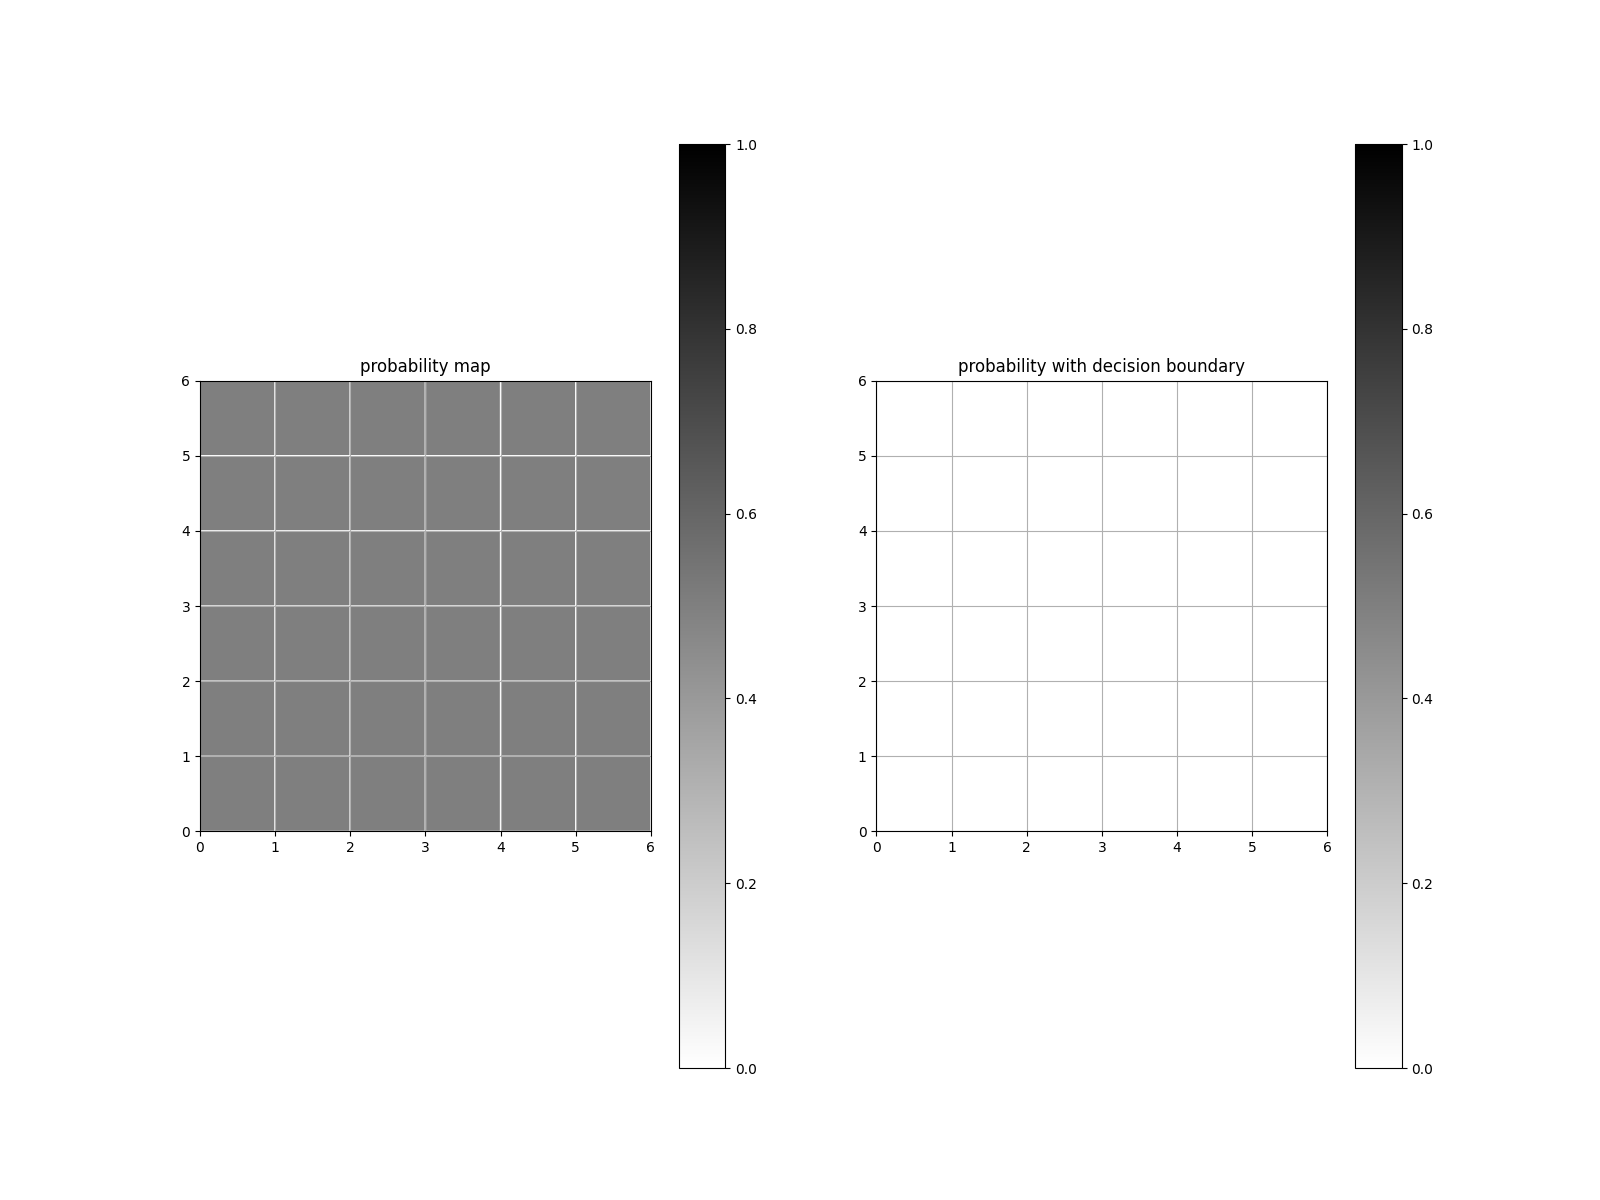
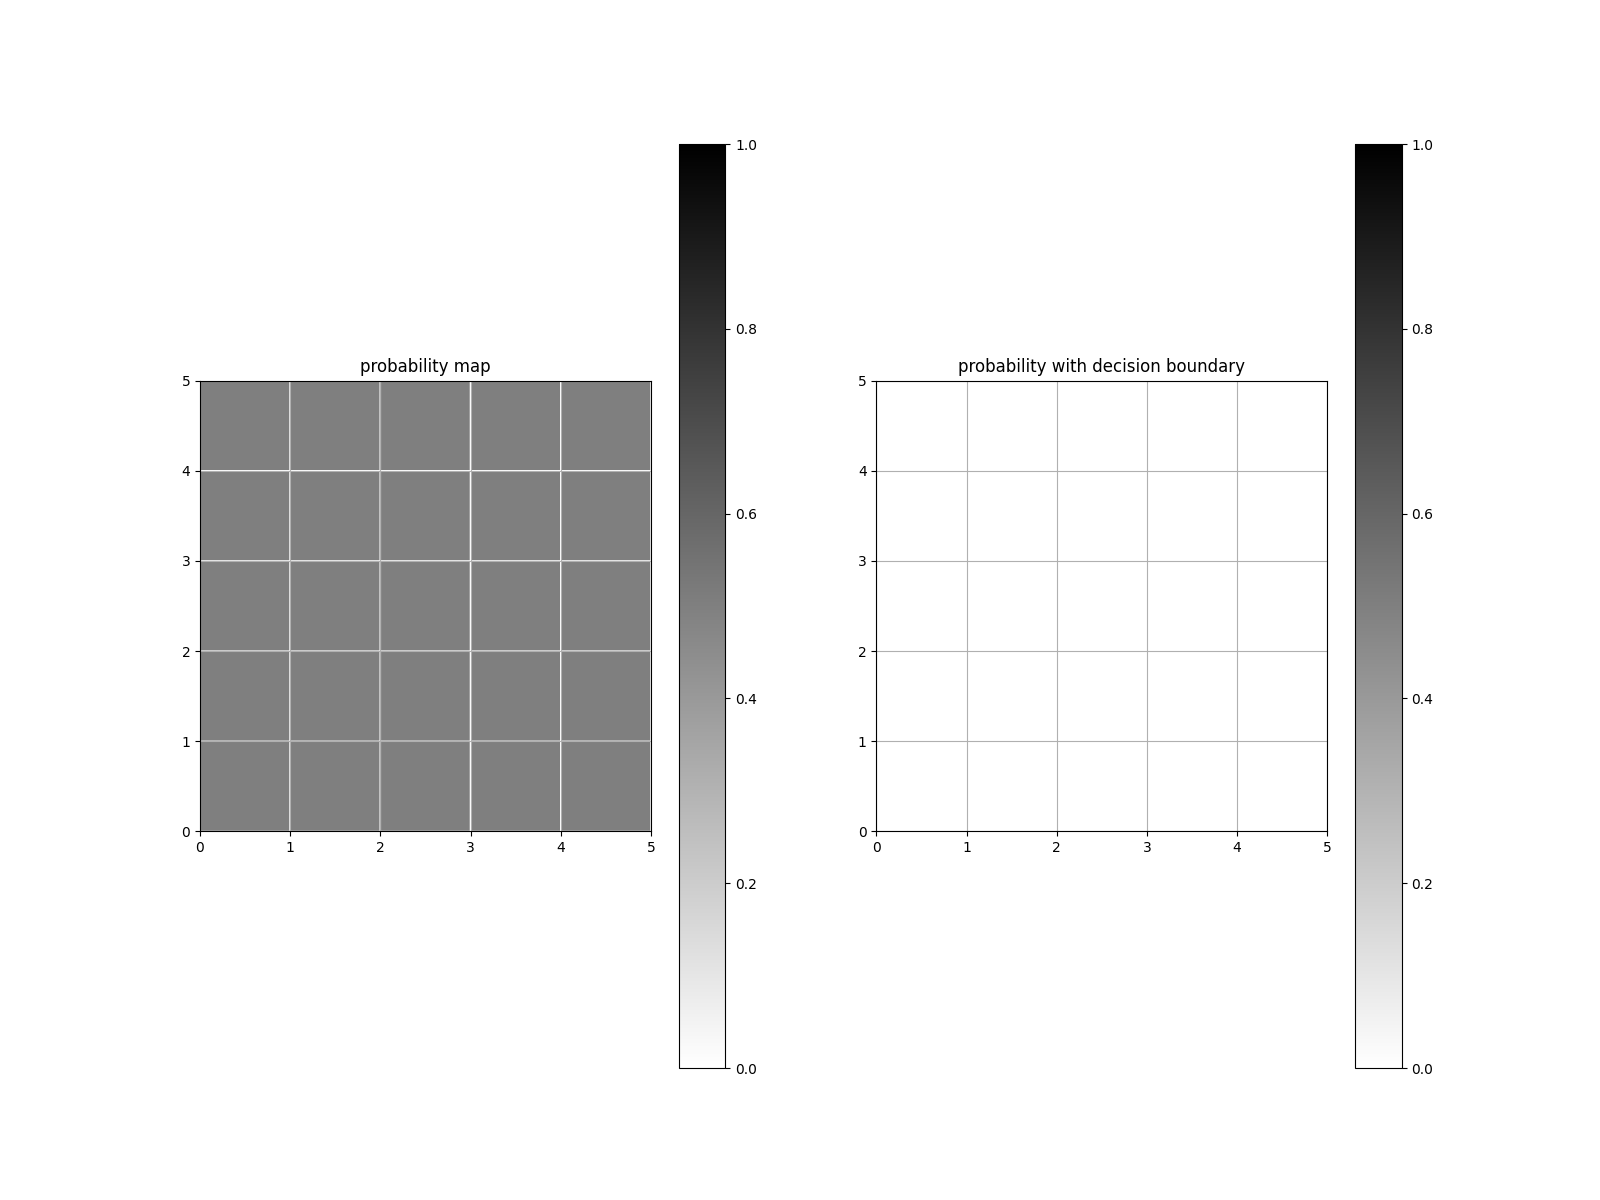
fixes

diff --git a/pi/main.py b/pi/main.py
@@ -4,7 +4,7 @@ from time import sleep
 
 from errors import QuitError
 from constants import P_FREE, P_OCC, MAP_SIZE, L2R
-from constants import FWD, RGT, BWD, LFT, STATES, INITIAL_POSN
+from constants import FWD, RGT, BWD, LFT, STATES, INITIAL_POSN, INITIAL_STATE
 from mapping import Mapping
 
 class Controller(object):
@@ -23,6 +23,7 @@ class Controller(object):
     self.state = initial_state
 
     self.mapping = Mapping(*map_args)
+    self.controls = []
 
     curses.noecho()
     curses.cbreak()
@@ -35,7 +36,7 @@ class Controller(object):
     line = self.arduino.readline().decode('utf-8').strip()
     return line
 
-  def send(self,char:str) -> None:
+  def send(self,char) -> None:
     if char == ord('q'):
       raise QuitError("bye bye")
     elif char == curses.KEY_UP:
@@ -47,47 +48,52 @@ class Controller(object):
     elif char == curses.KEY_RIGHT:
       self.right()
     elif char == ord(' '):
-      self.write('S')
+      self.write(b'S')
     elif char == ord('m') or char == ord("M"):
-      self.write('M')
+      self.write(b'M')
       resp = str(self.recv()).split(":")
       self.write(b'S')
       print(f"recv : {int(resp[1])}")
       i = int(resp[1])
       self.update_map(i)
+    """
     else:
-      self.write(bytes(char.upper()))
+      self.write(bytes(char, encoding="utf-8"))
+      """
   
   def write(self,c):
       print("sending",c)
-      self.arduino.write(bytes(c))
+      self.arduino.write((c))
 
   def forward(self) -> None:
       self.position = tuple(map(lambda a,b: a+b, self.position,self.state))
-      self.write('F')
+      self.write(b'F')
 
   def backward(self) -> None:
       self.position = tuple(map(lambda a,b: a-b, self.position,self.state))
-      self.write('B')
+      self.write(b'B')
 
   def right(self) -> None:
-      self.state = STATES[(self.position.index(self.state)+1)%len(self.position)]
-      self.write('R')
+      self.state = STATES[(STATES.index(self.state)+1)%len(STATES)]
+      self.write(b'R')
 
   def left(self) -> None:
-      rpos = self.position
-      self.state = STATES[(rpos.index(self.state)-1)%len(rpos)]
-      self.write('L')
+      rpos = STATES[::-1]
+      self.state = STATES[(STATES.index(self.state)+1)%len(STATES)]
+      self.write(b'L')
 
-  def create_map(self, grids):
+  def update_map(self, grids):
       probabilities = [P_FREE]*grids + [P_OCC]
       def fnc (g,a,b): 
+        print("f:",g,a,b)
         return (a[0]+g*b[0],a[1]+g*b[1])
 
-      positions = tuple(map(fnc, range(1,grids+2), self.position,self.state))
+      g,a,b = range(1,grids+2), self.position,self.state
+      positions = list(map(fnc, g,[a]*(grids+2),[b]*(grids+2)))
 
       print(f"probabilities : {probabilities}, {positions}")
       self.mapping.update_log_odds(positions, probabilities)
+      self.mapping.export()
 
   def display_options(self):
     print(f"""{'='*40} CONTROLS {'='*40}

diff --git a/pi/mapping.py b/pi/mapping.py
@@ -4,7 +4,7 @@ import numpy as np
 import matplotlib.pyplot as plt
 
 from log_odds import log_odds, retrieve_p
-from constants import MAP_SIZE, L2R, T2B, DEC_BOUNDARY, P_INIT
+from constants import MAP_SIZE, L2R, T2B, DEC_BOUNDARY, P_INIT, FIG_SIZE
 
 class Mapping(object):
     def __init__(self,
@@ -29,6 +29,9 @@ class Mapping(object):
             probabilities:List[np.float64]) -> None:
 
         for (x, y), p in zip(positions, probabilities):
+            if x not in range(0,MAP_SIZE[0]): continue
+            if y not in range(0,MAP_SIZE[1]): continue
+
             self.log_odds_map[x,y] += log_odds(p)
             print(self.log_odds_map[x,y])
 
@@ -47,7 +50,7 @@ class Mapping(object):
                 plt.grid(True)
                 plt.gca().set_aspect('equal')
             figure = plt.gcf()
-            figure.set_size_inches(16,12)
+            figure.set_size_inches(*FIG_SIZE)
             plt.savefig(f"{directory}/{im}.png")
         plt.savefig(f"final_map.png")
 
@@ -63,4 +66,3 @@ if __name__ == "__main__":
     mapping.update_log_odds([(1,1),(2,1),(3,1),(4,1)],[0.4,0.4,0.4,0.6])
 
     mapping.export()
-

diff --git a/pi/constants.py b/pi/constants.py
@@ -11,8 +11,10 @@ FWD = 0
 RGT = 1
 BWD = 2
 LFT = 3
+INITIAL_STATE = STATES[FWD]
 
+FIG_SIZE = (4,3)
 INITIAL_POSN = (3,3)
-MAP_SIZE = (6,5) # size of the
+MAP_SIZE = (5,5) # size of the
 L2R = lambda x,y,s : y*s[1] + x # Left to right
 T2B = lambda x,y,s : x*s[0] + y # Top to bottom
